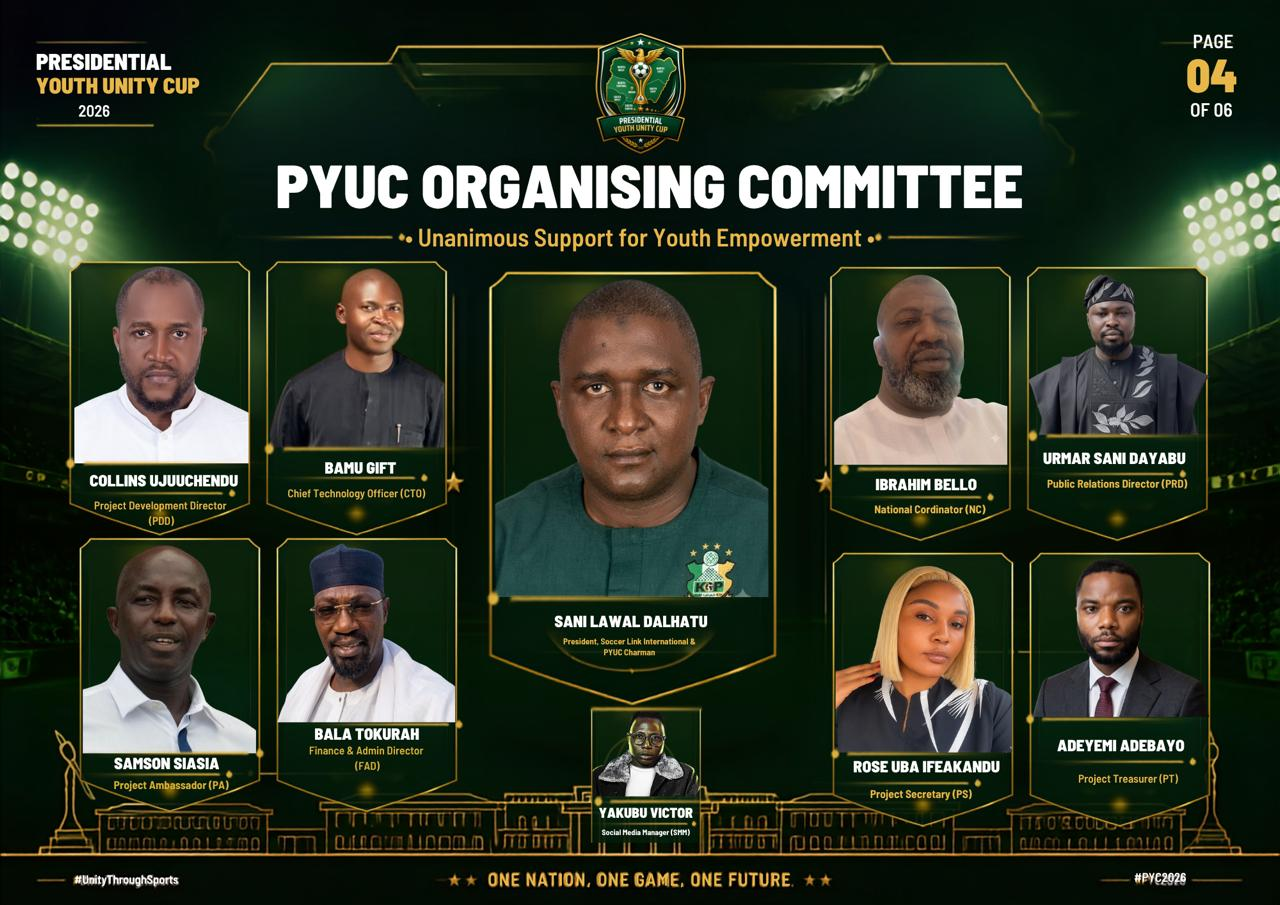
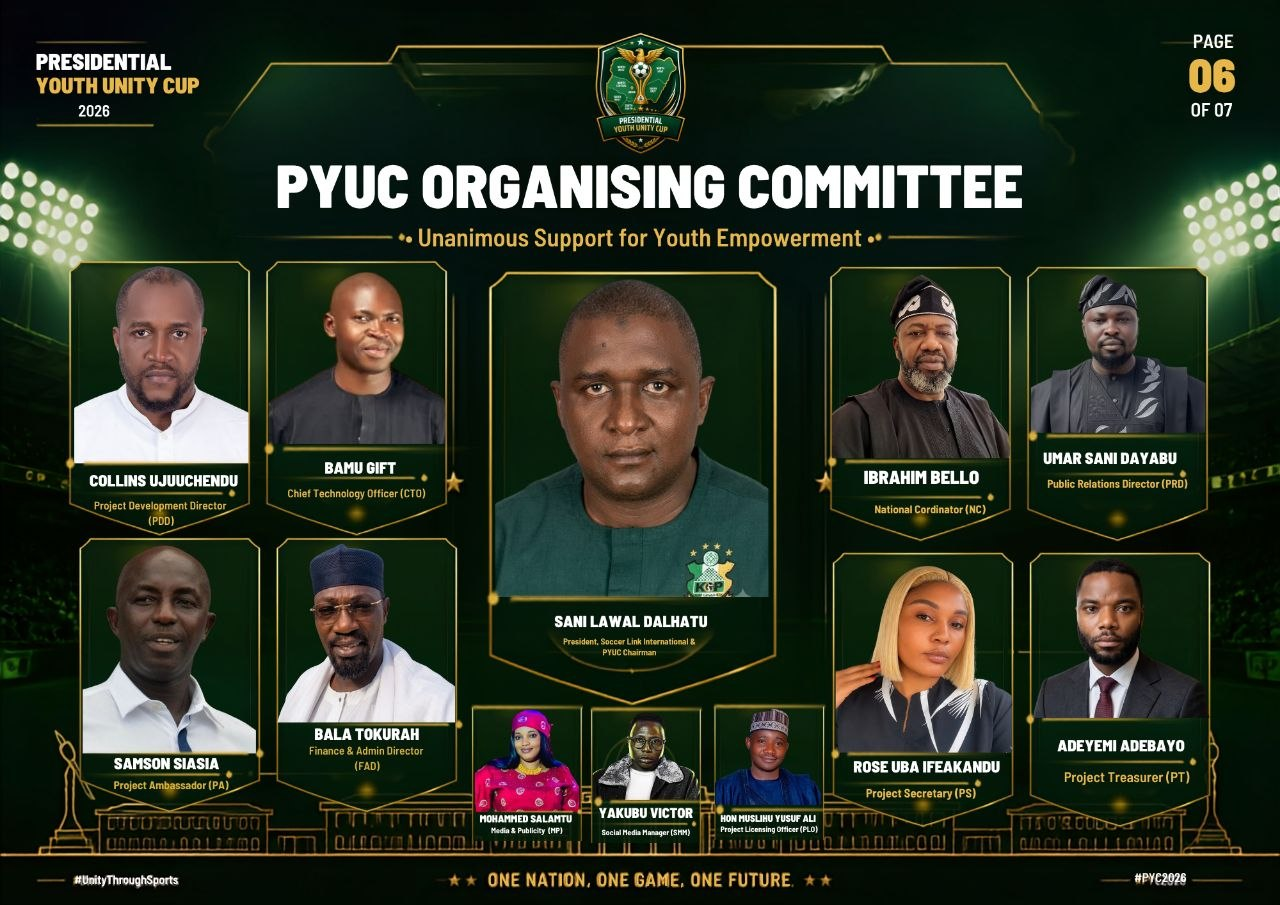
feat: add ambassador spotlight and residential-state field
- Committee: feature Samson Siasia (Project Ambassador) with photo + bio
- Register: add required "State of residence" select (36 states + FCT),
  submitted as residential_state; labels translated in all five languages

diff --git a/src/components/Committee.tsx b/src/components/Committee.tsx
@@ -1,6 +1,6 @@
 "use client";
 
-import { Download, FileText, Users } from "lucide-react";
+import { Award, Download, FileText, Users } from "lucide-react";
 import SectionHeading from "./SectionHeading";
 import Reveal from "./Reveal";
 
@@ -34,6 +34,40 @@ export default function Committee() {
           align="center"
           sub="Unanimous support for youth empowerment — the team delivering the Presidential Youth Unity Cup 2026 under the Office of the Presidency."
         />
+
+        {/* Ambassador spotlight */}
+        <Reveal className="mt-14">
+          <div className="mx-auto grid max-w-4xl grid-cols-1 overflow-hidden rounded-3xl glass glass-gold shadow-premium sm:grid-cols-[minmax(0,300px)_1fr]">
+            {/* photo */}
+            <div className="relative bg-naija-dark">
+              {/* eslint-disable-next-line @next/next/no-img-element */}
+              <img
+                src="/seisei.jpg"
+                alt="Samson Siasia — PYUC 2026 Project Ambassador, in the Nigeria Super Eagles kit"
+                width={720}
+                height={1024}
+                loading="lazy"
+                decoding="async"
+                className="h-full max-h-[440px] w-full object-cover object-top"
+              />
+              <div className="pointer-events-none absolute inset-0 bg-gradient-to-t from-ink/80 via-transparent to-transparent sm:bg-gradient-to-r sm:from-transparent sm:to-ink/30" />
+            </div>
+            {/* text */}
+            <div className="flex flex-col justify-center gap-4 p-8 lg:p-10">
+              <div className="inline-flex w-fit items-center gap-2 rounded-full border border-gold/30 bg-gold/10 px-3 py-1 font-heading text-[11px] uppercase tracking-[0.2em] text-gold">
+                <Award className="h-3.5 w-3.5" /> Project Ambassador
+              </div>
+              <h3 className="font-display text-[clamp(2rem,5vw,3.25rem)] uppercase leading-none text-cloud">
+                Samson <span className="text-gradient-gold">Siasia</span>
+              </h3>
+              <p className="leading-relaxed text-cloud/70">
+                Former Super Eagles forward and Olympic silver-medal-winning coach, Samson
+                Siasia carries the PYUC message to every zone — inspiring a new generation
+                of Nigerian talent through the beautiful game.
+              </p>
+            </div>
+          </div>
+        </Reveal>
 
         {/* Committee graphic */}
         <Reveal className="mt-14">

diff --git a/src/lib/i18n.tsx b/src/lib/i18n.tsx
@@ -146,6 +146,8 @@ const en = {
   regZone: "Your zone",
   regRole: "Role",
   regSelectZone: "Select zone",
+  regResState: "State of residence",
+  regSelectState: "Select state",
   regSelectRole: "Select role",
   rolePlayer: "Player",
   roleCoach: "Coach",
@@ -264,6 +266,8 @@ const pcm: Dict = {
   regZone: "Your zone",
   regRole: "Role",
   regSelectZone: "Choose zone",
+  regResState: "State wey you dey stay",
+  regSelectState: "Choose state",
   regSelectRole: "Choose role",
   rolePlayer: "Player",
   roleCoach: "Coach",
@@ -358,6 +362,8 @@ const ha: Dict = {
   regZone: "Yankinka",
   regRole: "Matsayi",
   regSelectZone: "Zaɓi yanki",
+  regResState: "Jihar zama",
+  regSelectState: "Zaɓi jiha",
   regSelectRole: "Zaɓi matsayi",
   rolePlayer: "Ɗan wasa",
   roleCoach: "Kocì",
@@ -446,6 +452,8 @@ const yo: Dict = {
   regZone: "Agbègbè Rẹ",
   regRole: "Ipa",
   regSelectZone: "Yan agbègbè",
+  regResState: "Ìpínlẹ̀ tí o ń gbé",
+  regSelectState: "Yan ìpínlẹ̀",
   regSelectRole: "Yan ipa",
   rolePlayer: "Òṣèré",
   roleCoach: "Olùkọ́",
@@ -534,6 +542,8 @@ const ig: Dict = {
   regZone: "Mpaghara Gị",
   regRole: "Ọrụ",
   regSelectZone: "Họrọ mpaghara",
+  regResState: "Steeti obibi",
+  regSelectState: "Họrọ steeti",
   regSelectRole: "Họrọ ọrụ",
   rolePlayer: "Onye egwuregwu",
   roleCoach: "Onye nchịkọta",

diff --git a/src/components/Register.tsx b/src/components/Register.tsx
@@ -11,6 +11,12 @@ import { useLang } from "@/lib/i18n";
 // Without a key the form runs in demo mode so the page still works out of the box.
 const ACCESS_KEY = process.env.NEXT_PUBLIC_WEB3FORMS_KEY;
 
+// All 36 states + FCT (derived from the zone data), for the "state of residence" field.
+const NG_RESIDENTIAL_STATES = [
+  ...ZONES.flatMap((z) => z.states),
+  "FCT (Abuja)",
+].sort((a, b) => a.localeCompare(b));
+
 type Status = "idle" | "loading" | "done" | "error";
 
 export default function Register() {
@@ -181,6 +187,19 @@ export default function Register() {
                     </select>
                   </Field>
                 </div>
+
+                <Field label={t("regResState")}>
+                  <select required name="residential_state" defaultValue="" className="field">
+                    <option value="" disabled>
+                      {t("regSelectState")}
+                    </option>
+                    {NG_RESIDENTIAL_STATES.map((s) => (
+                      <option key={s} value={s}>
+                        {s}
+                      </option>
+                    ))}
+                  </select>
+                </Field>
 
                 {status === "error" && (
                   <div className="flex items-center gap-2 rounded-xl border border-red-500/30 bg-red-500/10 p-3 text-sm text-red-300">
